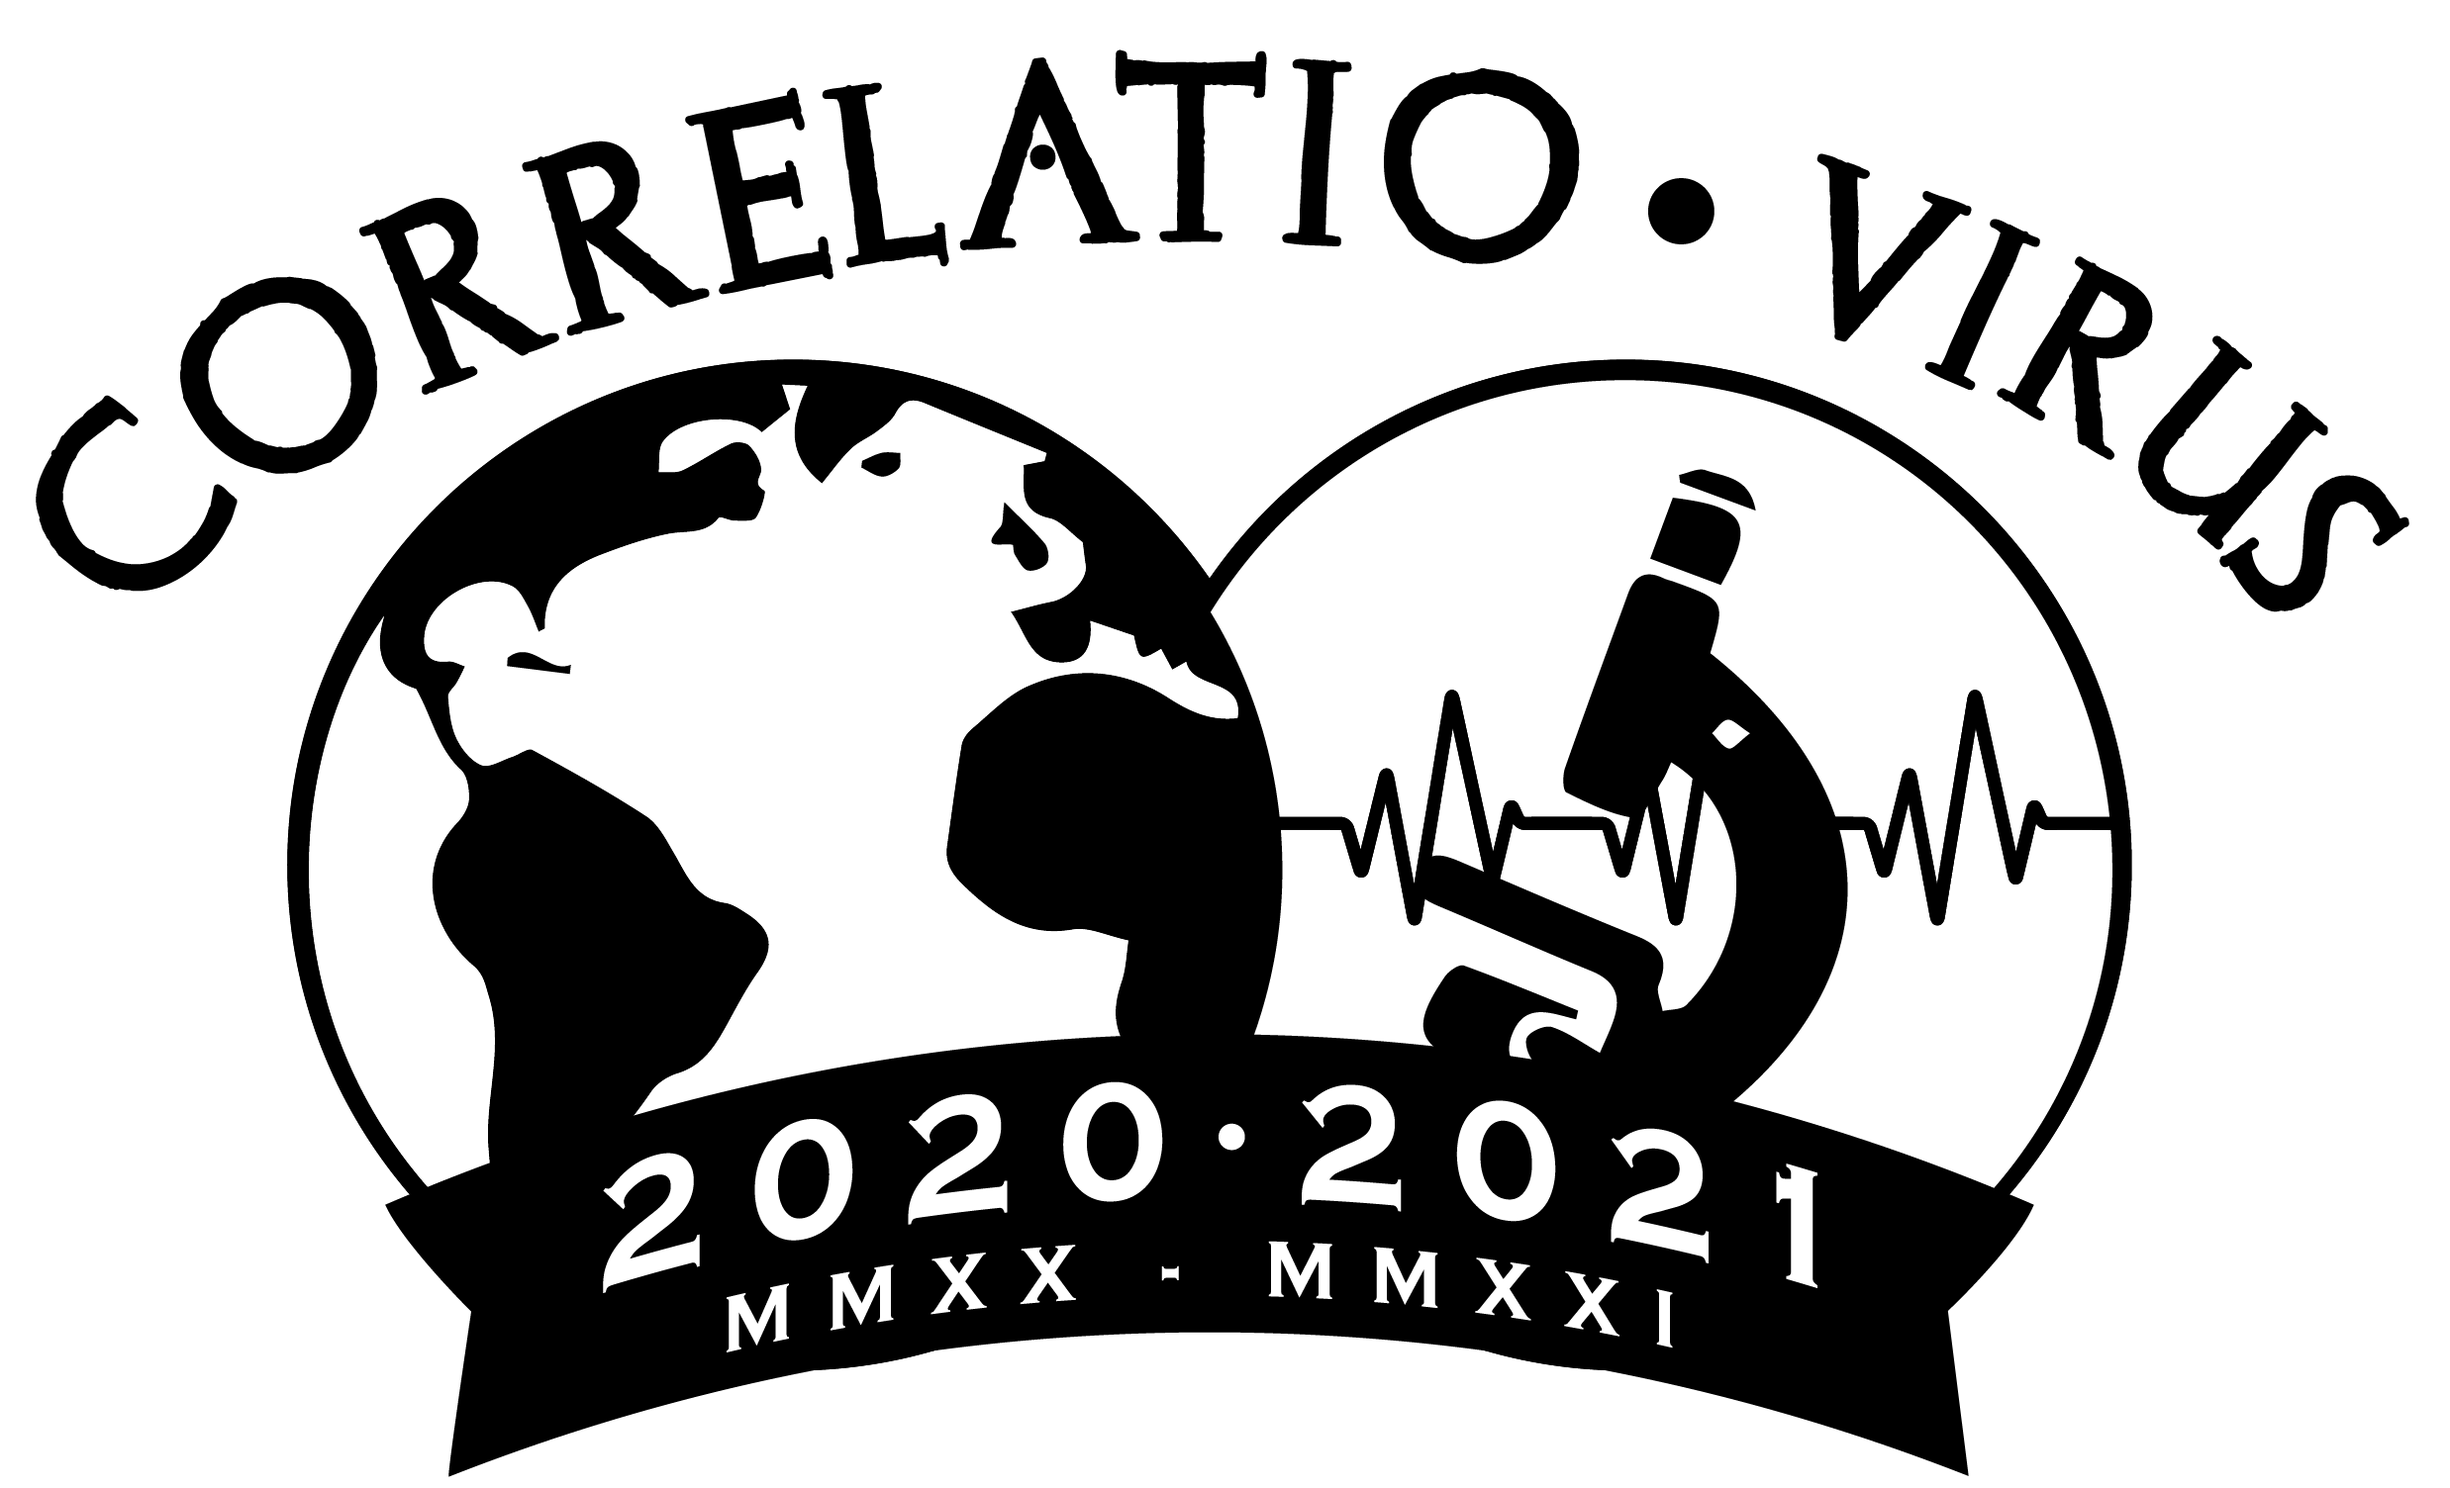
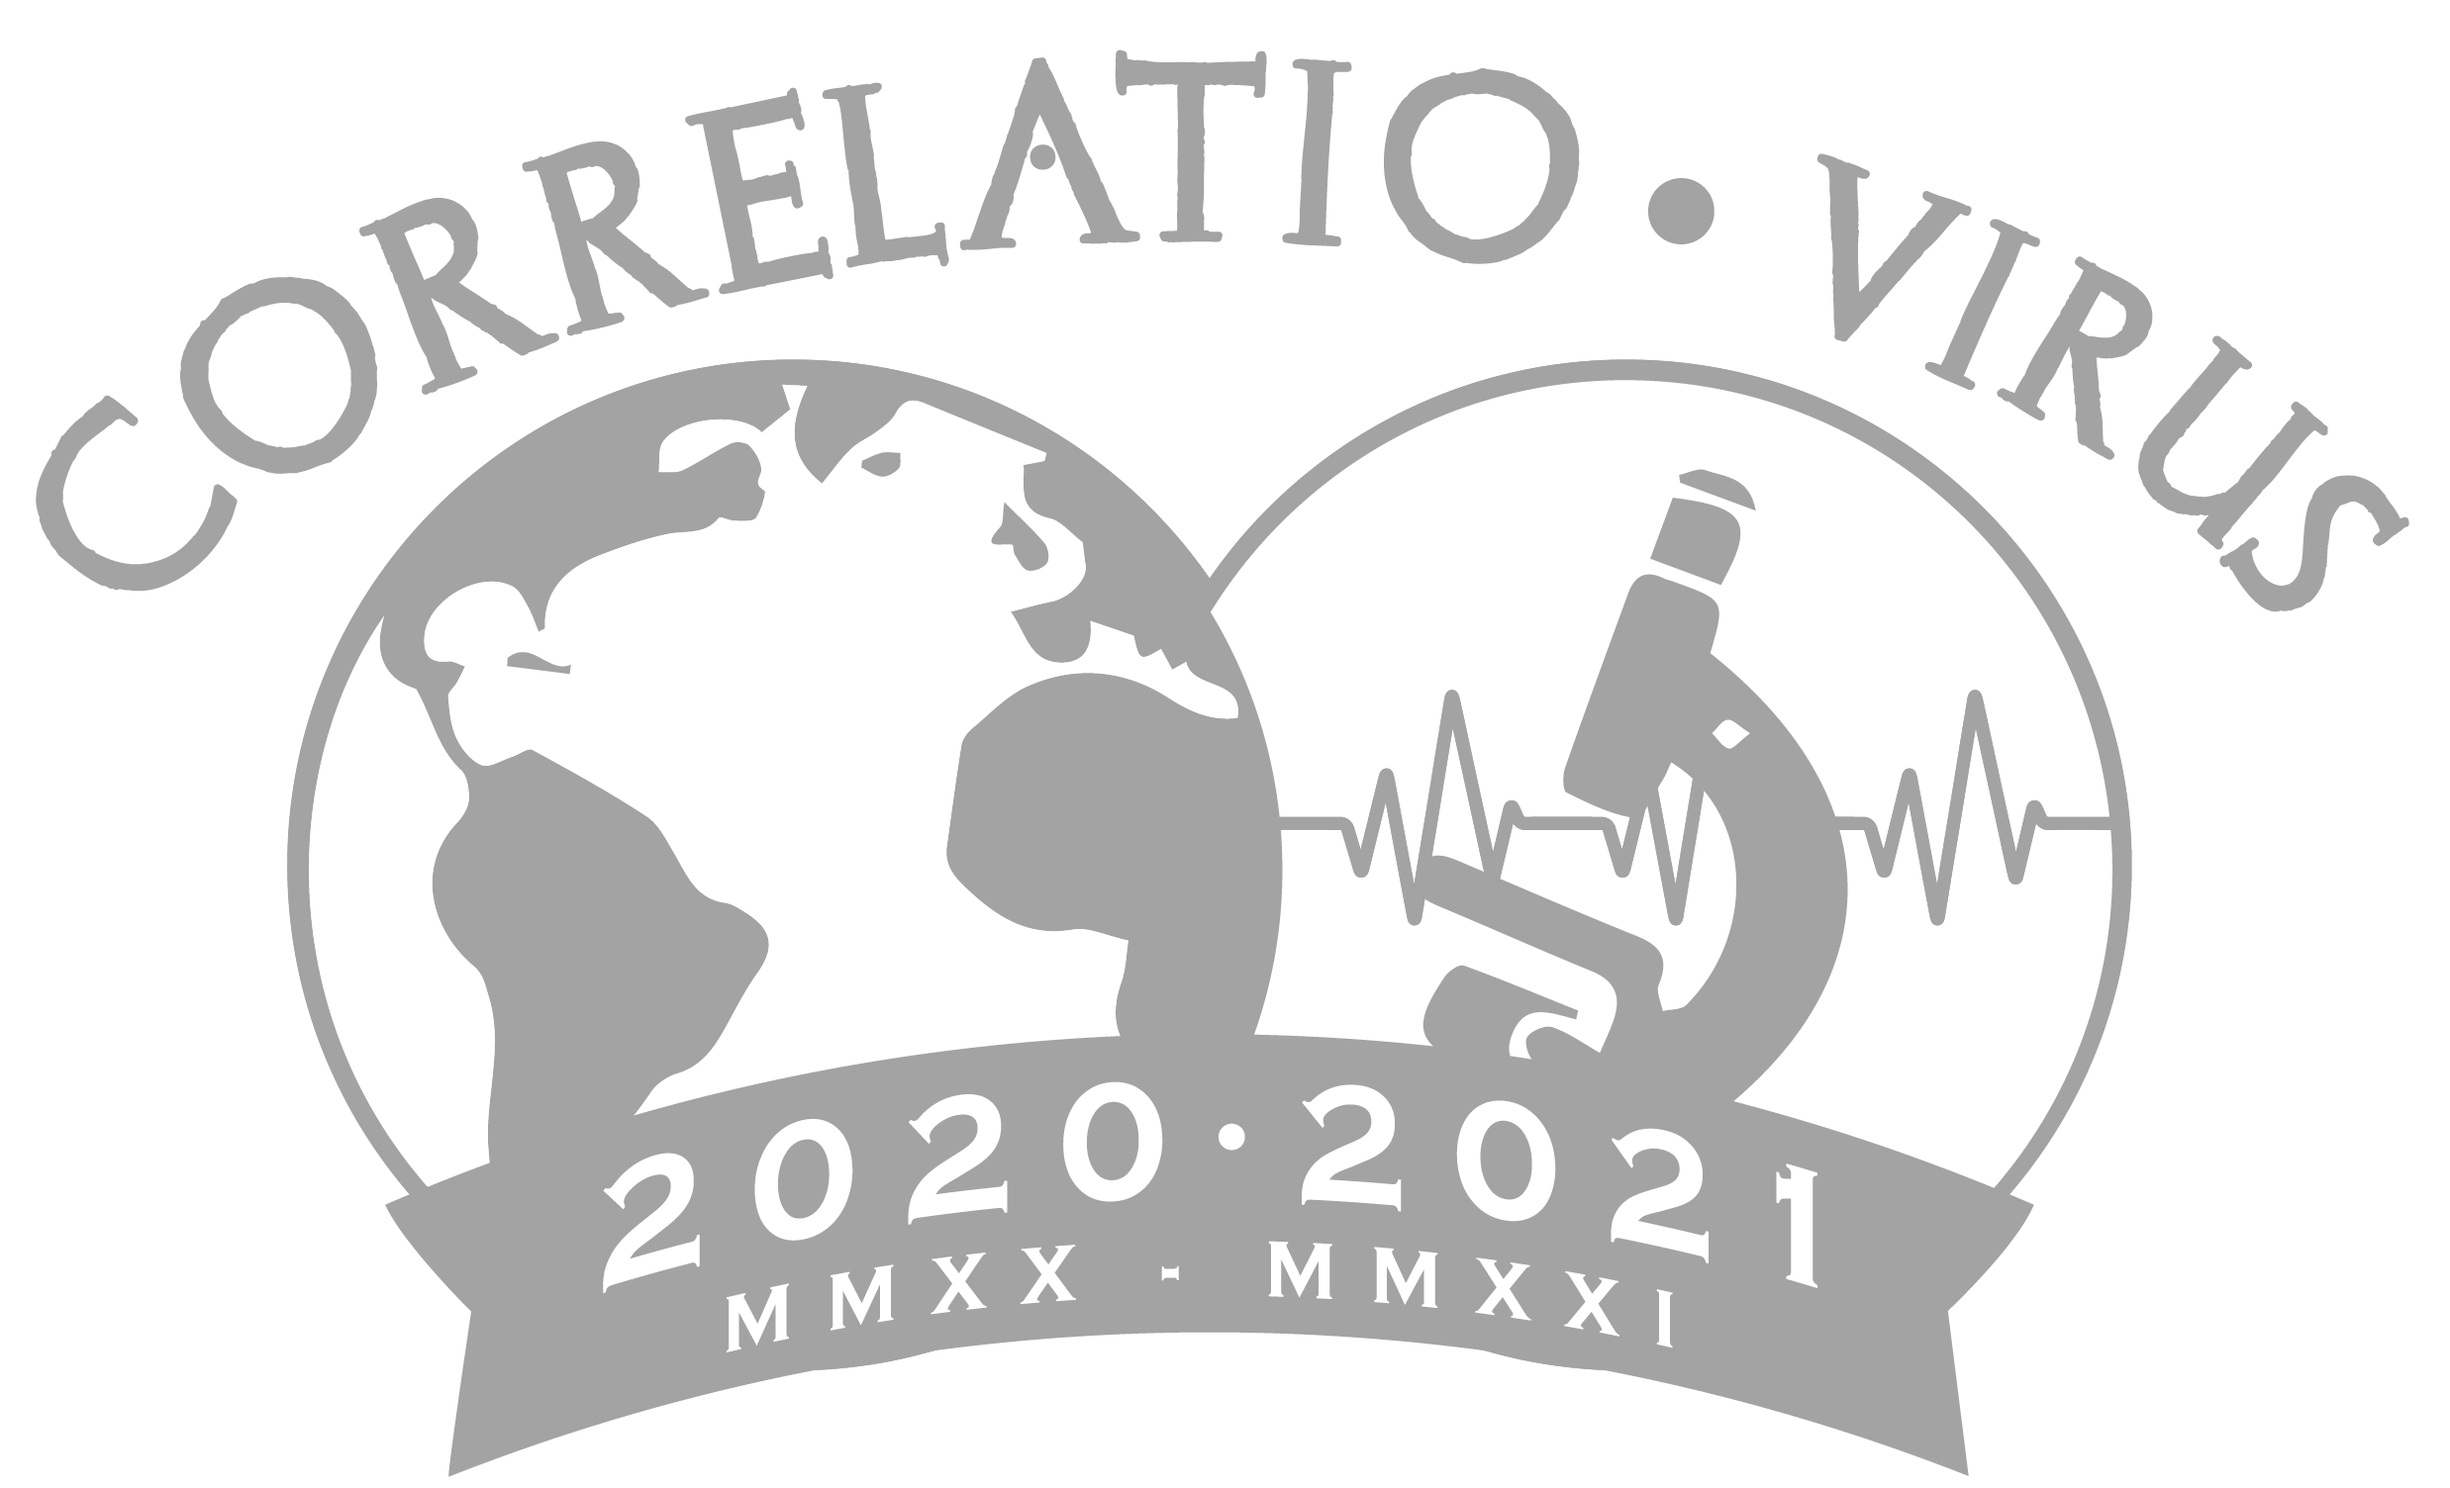
fix watermark

diff --git a/files/grafico.js b/files/grafico.js
@@ -220,7 +220,7 @@ function graficar() {
                     ctx.restore();
                    
                     let image = new Image();
-                    image.src = "../img/logoIntro.png";
+                    image.src = "../img/watermark.png";
                     if (image.complete) {
                         const ctx = chart.ctx;
                         const { top, left, width, height } = chart.chartArea;
